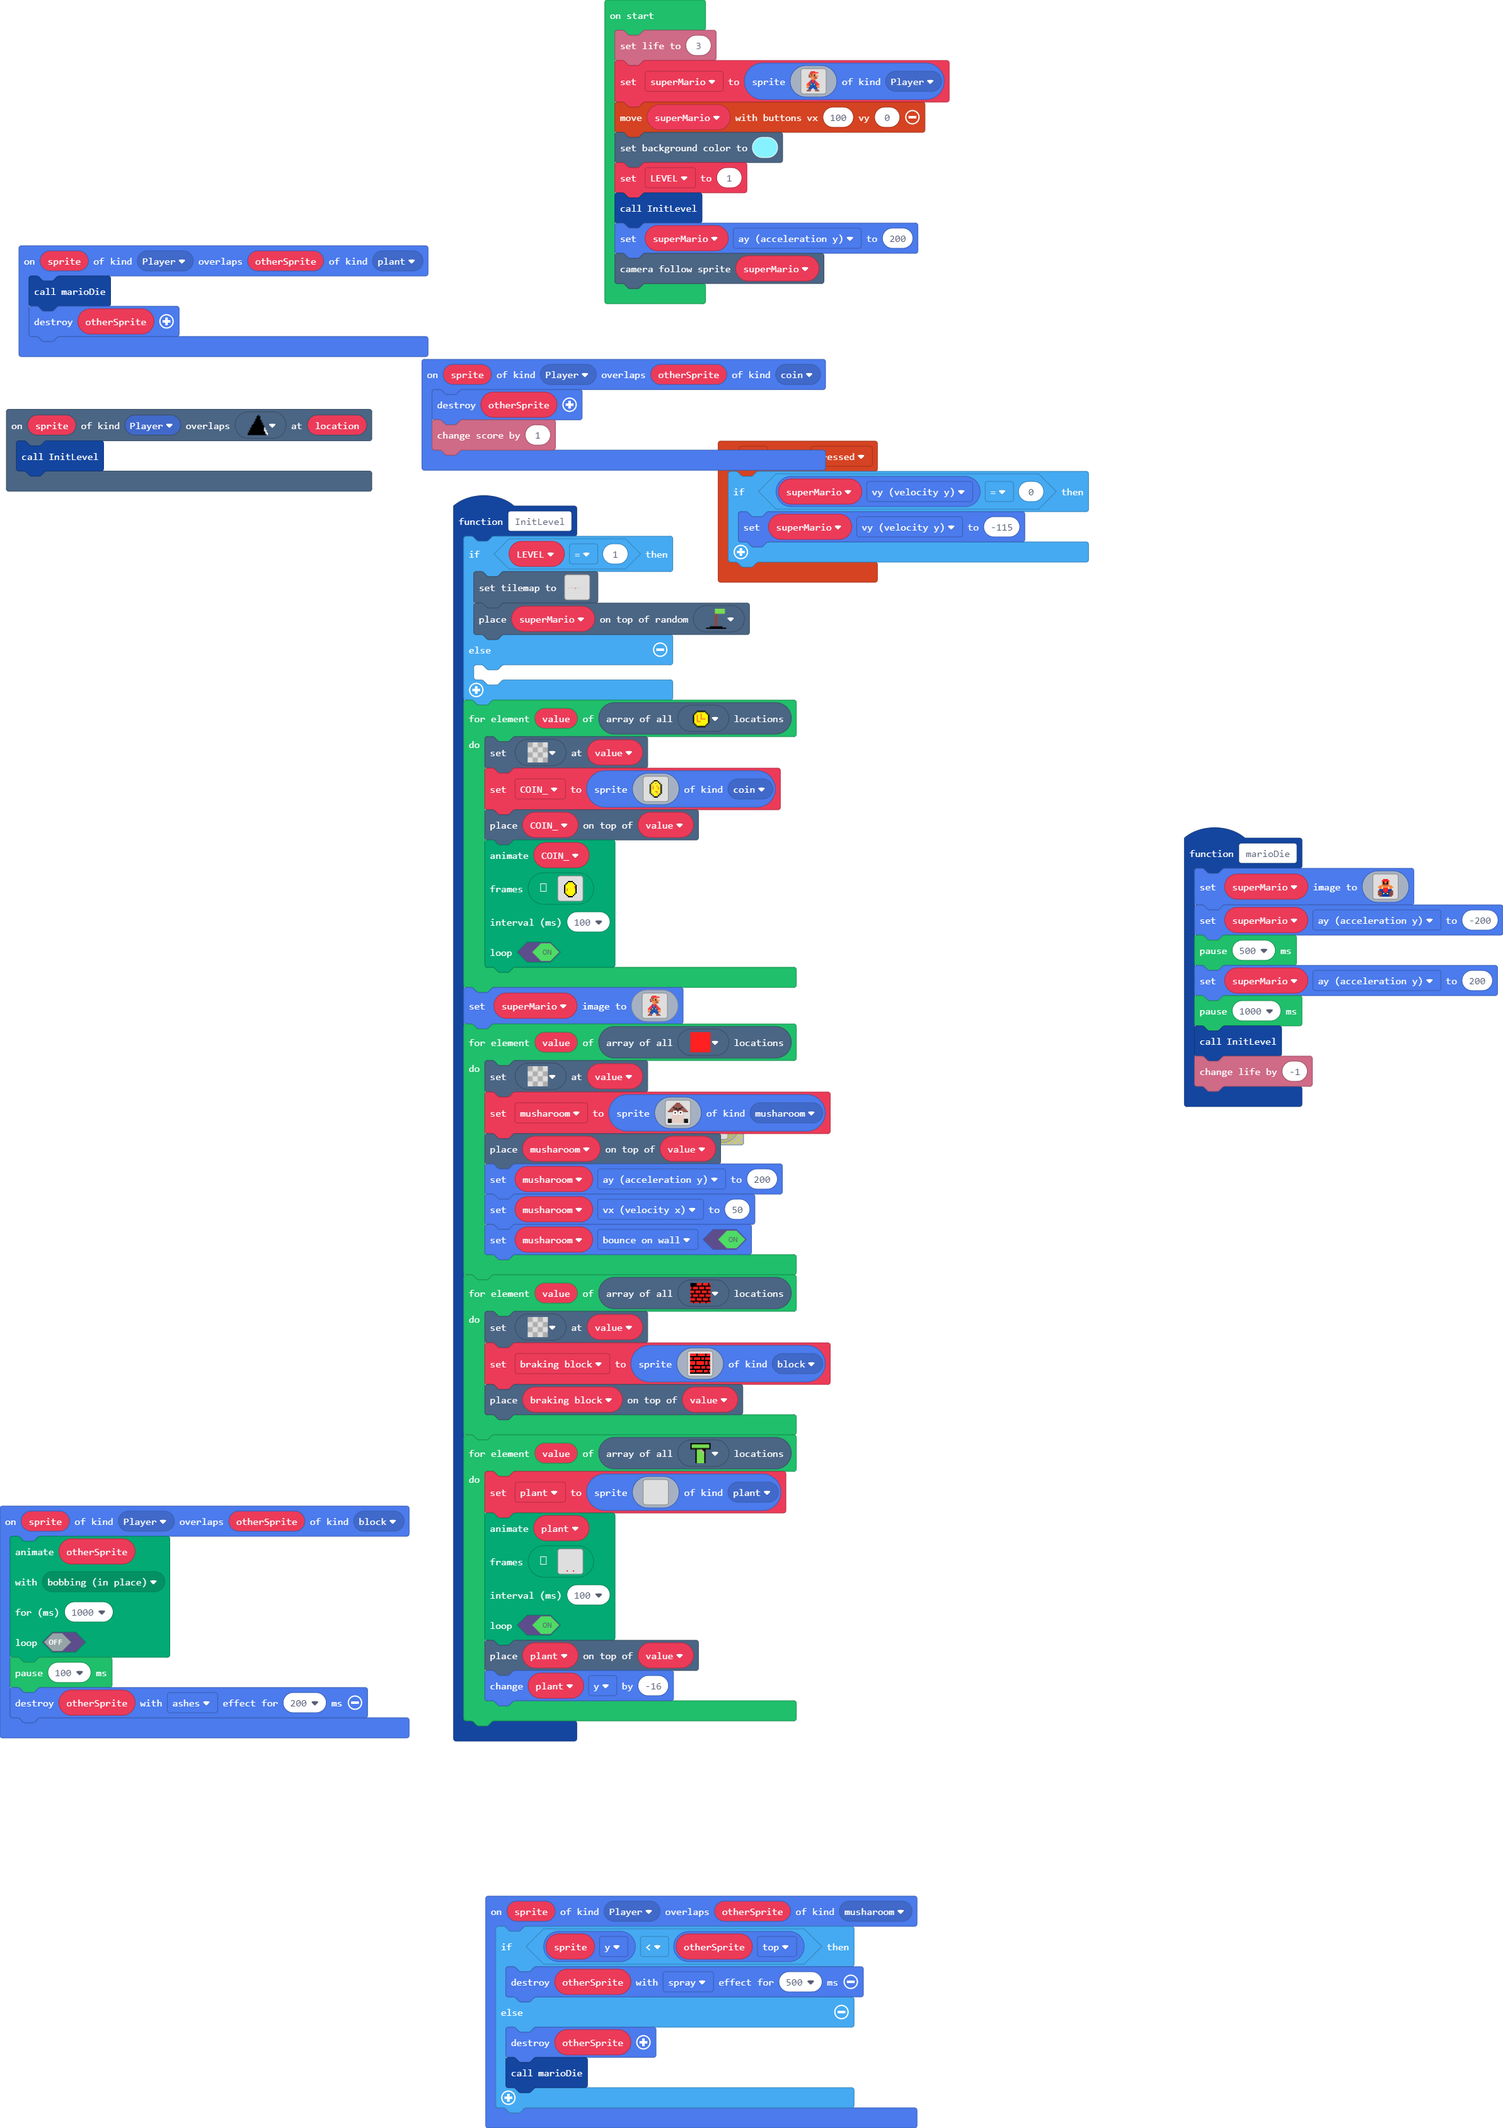
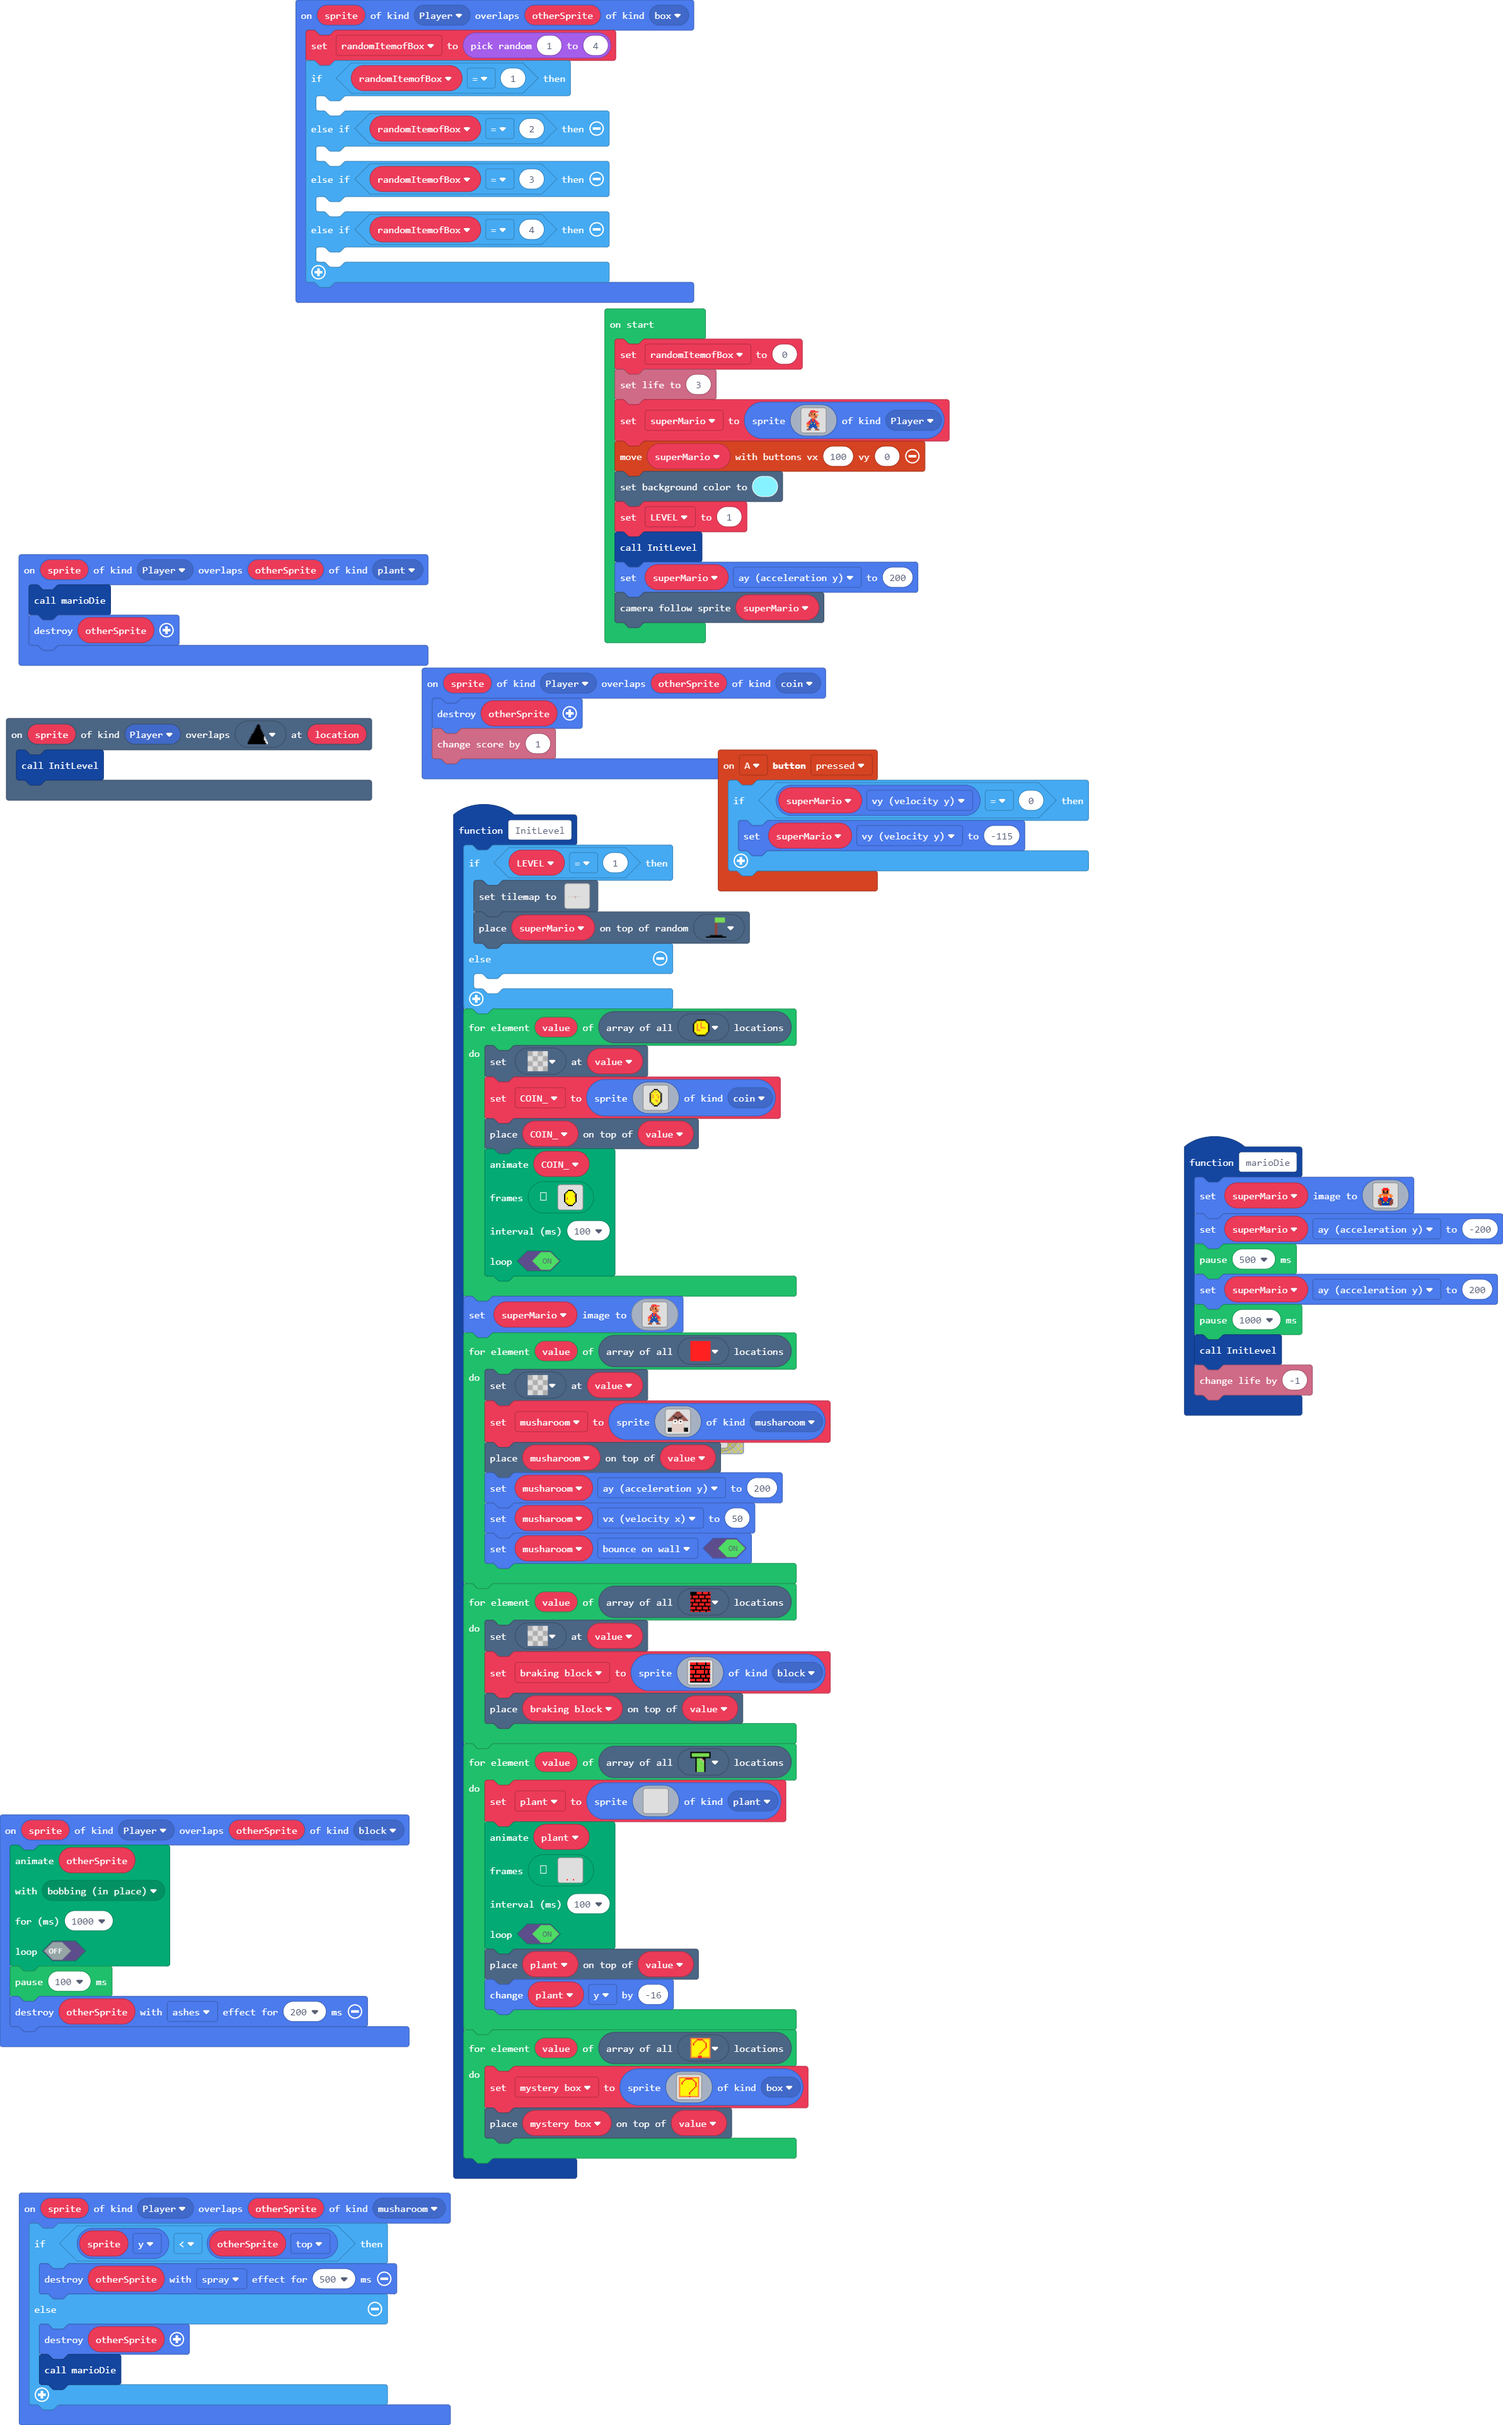
box

diff --git a/main.ts b/main.ts
@@ -3,6 +3,7 @@ namespace SpriteKind {
     export const musharoom = SpriteKind.create()
     export const block = SpriteKind.create()
     export const plant = SpriteKind.create()
+    export const box = SpriteKind.create()
 }
 namespace myTiles {
     //% blockIdentity=images._tile
@@ -212,6 +213,18 @@ controller.A.onEvent(ControllerButtonEvent.Pressed, function () {
         superMario.vy = -115
     }
 })
+sprites.onOverlap(SpriteKind.Player, SpriteKind.box, function (sprite, otherSprite) {
+    randomItemofBox = Math.randomRange(1, 4)
+    if (randomItemofBox == 1) {
+    	
+    } else if (randomItemofBox == 2) {
+    	
+    } else if (randomItemofBox == 3) {
+    	
+    } else if (randomItemofBox == 4) {
+    	
+    }
+})
 sprites.onOverlap(SpriteKind.Player, SpriteKind.block, function (sprite, otherSprite) {
     animation.runMovementAnimation(
     otherSprite,
@@ -252,7 +265,7 @@ function InitLevel () {
 . . . . . . . . . . . . . . . . . . . . . . . . 2 . . . . . . . . . . . . . . . . . . . . . . . . . . . . . . . . . . . . . . . . . . . . . . . . . . . . . . . . . . . . . . . . . . . . . . . . . . . 
 . . . . . . . . . . . . . . . . . . . . . . . . 2 . . . . . . . . . . . . . . . . . . . . . . . . . . . . . . . . . . . . . . . . . . . . . . . . . . . . . . . . . . . . . . . . . . . . . . . . . . . 
 . . . . . . . . . . . . . . . . . . . . . . . . 2 . . . . . . . . . . . . . . 2 . . 2 . . . . . . . . . . . . . . . . . . . . . . . . . . . . . . . . . . . . . . . . . . . . . . . . . . . . . . . . . 
-. . . . . . . . . . . . . . . . . . . . . . . . . . . . . . . . . . . . . . 2 2 . . 2 2 . . . . . . . . . . . . . . 2 2 2 2 2 . . . . . . . . . . . . . . . . . . . . . . . . . . . . . . . . . . . . . 
+. . . . . . . . . . . . . . . . . . . . . . . . . . . . . . . . . . . . . . 2 2 . . 2 2 . . . . . . . . . . . . . . 2 2 2 2 2 2 . . . . . . . . . . . . . . . . . . . . . . . . . . . . . . . . . . . . 
 . . . . . . 2 . . . . . . . . . . . . . . . . . . . . . . . . . . . . . . 2 2 2 . . 2 2 2 . . . . . . . . . . . . . . . . . . . . . . . . . . . . . . . . . . . . . . . . . . . . . . . . . . . . . . . 
 . . . . . . 2 2 2 . . . . 2 . . . . . 2 . . . . . . . . . . . . 2 . . . 2 2 2 2 . . 2 2 2 2 . . . 2 . . 2 . . 2 . . . . . . . . . . . . . . . . . . . . . . . . . . . . . . . . . . . . . . . . . . . . 
 2 2 2 2 2 2 2 2 2 2 2 2 2 2 2 2 2 2 2 2 2 2 2 2 2 2 2 2 2 2 2 2 2 2 2 2 2 2 2 2 . . 2 2 2 2 2 2 2 2 2 2 2 2 2 2 2 2 2 2 2 2 2 2 2 2 2 2 2 2 2 2 2 2 2 2 2 2 2 2 2 2 2 2 2 2 2 2 2 2 2 2 2 2 2 2 2 2 2 2 
@@ -1326,17 +1339,41 @@ f f f f f f f f f f f f f f f f
         tiles.placeOnTile(plant, value)
         plant.y += -16
     }
+    for (let value of tiles.getTilesByType(myTiles.tile8)) {
+        mystery_box = sprites.create(img`
+4 4 4 4 4 4 4 4 4 4 4 4 4 4 4 4 
+4 5 5 5 5 2 2 2 2 2 2 5 5 5 5 4 
+4 5 5 5 2 5 5 5 5 5 5 2 5 5 5 4 
+4 5 5 2 5 5 5 5 5 5 5 5 2 5 5 4 
+4 5 2 5 5 5 5 5 5 5 5 5 5 2 5 4 
+4 5 2 5 5 5 5 5 5 5 5 5 5 2 5 4 
+4 5 5 5 5 5 5 5 5 5 5 5 5 2 5 4 
+4 5 5 5 5 5 5 5 5 5 5 5 5 2 5 4 
+4 5 5 5 5 5 5 5 5 5 5 5 2 5 5 4 
+4 5 5 5 5 5 5 5 5 5 5 2 5 5 5 4 
+4 5 5 5 5 5 5 5 5 5 2 5 5 5 5 4 
+4 5 5 5 5 5 5 5 5 2 5 5 5 5 5 4 
+4 5 5 5 5 5 5 5 2 5 5 5 5 5 5 4 
+4 5 5 5 5 5 5 5 2 5 5 5 5 5 5 4 
+4 5 5 5 5 5 5 5 5 5 5 5 5 5 5 4 
+4 4 4 4 4 4 4 4 2 4 4 4 4 4 4 4 
+`, SpriteKind.box)
+        tiles.placeOnTile(mystery_box, value)
+    }
 }
 sprites.onOverlap(SpriteKind.Player, SpriteKind.plant, function (sprite, otherSprite) {
     marioDie()
     otherSprite.destroy()
 })
+let mystery_box: Sprite = null
 let plant: Sprite = null
 let braking_block: Sprite = null
 let musharoom: Sprite = null
 let COIN_: Sprite = null
 let LEVEL = 0
 let superMario: Sprite = null
+let randomItemofBox = 0
+randomItemofBox = 0
 info.setLife(3)
 superMario = sprites.create(img`
 . . . . 2 2 2 2 . . . . 
